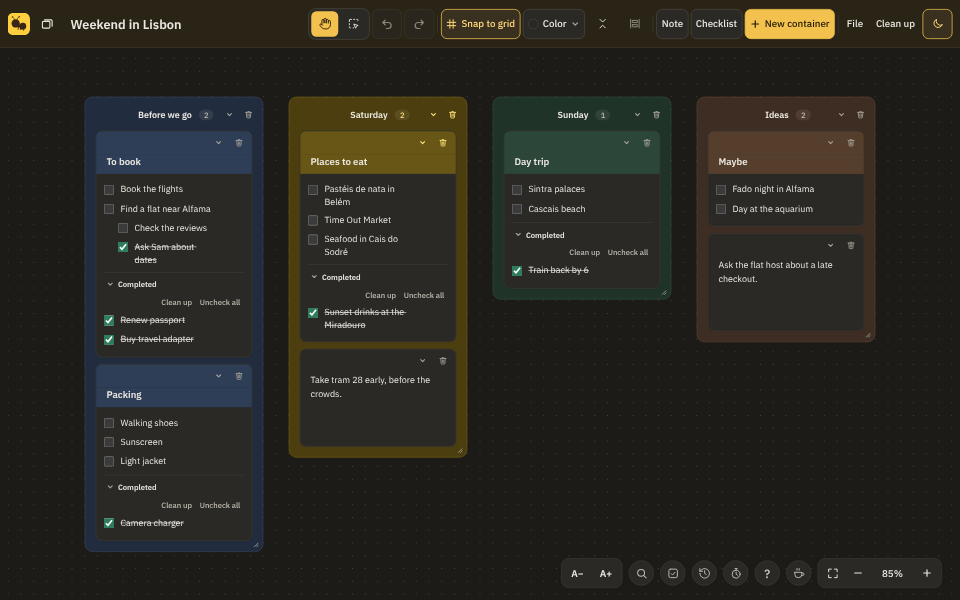
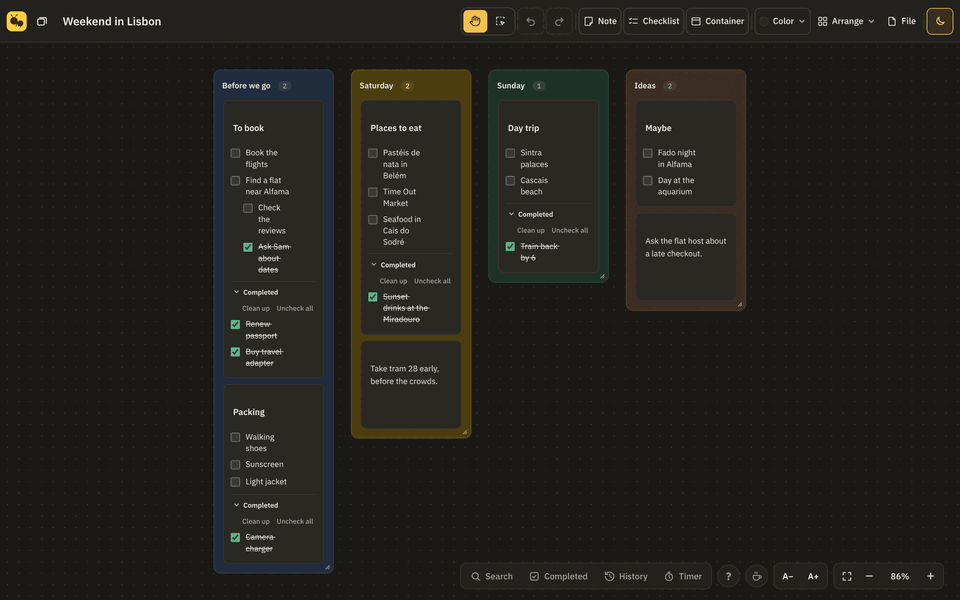
About page: retake board pictures in the new look (job #80)
Claude-Session: https://claude.ai/code/session_01Mqo5uQm7tXN8YtZdHHqsTF

diff --git a/docs/decisions.md b/docs/decisions.md
@@ -170,3 +170,4 @@ Decisions made while building Note Board, with dates and reasons, moved here fro
 - 2026-10-16 (owner decisions, desktop look "Honey Workshop", direction A of the redesign proposal; round 1). Owner's answers: (1) direction A, light and dark; (2) keep IBM Plex Sans; (3) a card's or container's hover-only buttons (trash, collapse and the like) show only while pointing at it, and always on a phone and while it is selected; (4) no coloured title band: cards are white with a bold title, and a colour picked in the Color menu tints the card header lightly; (5) side panels keep covering the board; (6) Snap to grid moves into a new Arrange menu (with Collapse all, Same width and Clean up); (7) a checklist's Clean up and Uncheck all move inside its Completed row and show only while that row is open. Due dates and arrows were left out (both removed earlier). My calls (recommended option, owner rule): Hand / Select keep their order, the pressed tool is honey; Sign out stays an icon; Arrange is a small popover group like File (stays open while used so Snap shows its state, closes on a click elsewhere); the bottom-right panel buttons become one pill with short labels (Search, Completed, History, Timer, Calendar), the ? and coffee stay round and A−/A+ stay; no count on the Completed row; container titles left-aligned; the link card's Open is accent text; selection keeps the accent outline plus a soft honey glow; Note, Checklist and Container are outlined with an icon each, and Share is the one solid honey button; dark-mode checkbox #5fb38a; the header tint is 60% of the swatch mixed into the card colour, with the usual ink (checked readable on all 24 colours, light and dark); on the 8 bold tints the header's icons and title placeholder use the colour's own text colour (the soft grey fell to about 3.2:1); cards inside a coloured container get no automatic tint; the toolbar stays 64px high; the browser's title-bar colour (theme-color, manifest) follows the new toolbar colour (#FFFDF8 light, #24221E dark). From the code review: Escape closes the Arrange and File menus and returns focus to their button.
 - 2026-10-16 (owner decision, sent by the coordinator during the Honey Workshop job). Send feedback leaves the File menu and gets its own button: on a computer a small "Feedback" button with a speech-bubble icon just after File, before Dark mode and Share; on a phone a Feedback row in ⋯ More just above About BusyAnts (not a tile). It opens the same Send feedback panel; sending and saving are unchanged, and it still shows only when signed in (or for a demo person), as before. My call: the button is quiet (outlined like File), not honey, so Share stays the one solid button.
 - 2026-10-16 (owner decision: restyle the website to direction "B. Done List"; replaces the job #59 "Bolder look" and the job #62 About layout). Owner answers: (1) direction B is chosen, paired with the app's "A. Honey Workshop" look (a separate job); (2) Familjen Grotesk replaces Bricolage Grotesque for titles, IBM Plex Sans stays for body text; (3) the FAQ, Terms and Privacy use accordions, built on native `<details>`/`<summary>` so they stay accessible; (4) a second Start your board, free button at the end of the About page; (5) the big honey block stays at the top of every page; (6) the existing `about/board.png` and `board-dark.png` stay, shown larger and framed; retaking them is a follow-up after the app restyle lands. My calls (recommended options): (a) the Done List checkboxes on About are real `<input type="checkbox">`s with their titles as labels; ticking moves an item under "Completed" with CSS only (`:has()`), so it moves on screen but keeps its place in the tab order, and nothing is saved; (b) new layout words only: "Try it: tick one off" and "Completed"; (c) the first fold on each folded page starts open; (d) section ids stay on the headings, and a few lines in `src/site.ts` open the fold a link points to (on arrival and when the address changes), so `faq/#import` and `faq/#delete` still land on their answer; (e) the Delete your account page is not folded (it is short and its steps must be seen): its five steps get big numbered badges; (f) in dark mode the honey block stays warm brown (#5A3C14) with honey text, and the hero button is ink on honey in light, honey on brown in dark; (g) on a phone the top bar is two rows (ant, name and Open BusyAnts; then the four page links spread across, each at least 44px tall), replacing the one-line icon-only bar; (h) on a phone the comparison table turns each row into a list of every app with its answer (labels from a `data-app` attribute) instead of scrolling sideways; (i) the footer keeps its links with no brand line; (j) tests that checked the old one-line phone bar, the side-by-side layout and the sideways-scrolling table were replaced by tests of the new behavior. From the code review: (k) printing or saving a folded page as PDF shows every section (print style), so the legal text is never cut from a printout; (l) the section headings stay real `<h2>`s inside each `<summary>` (Chromium keeps them in the headings list; some screen readers may read them as the button's text instead), kept because the spec asks for native folds and the ids links use live on them; (m) the "Completed" label and the app names shown in the phone table are on-screen only, so screen readers don't hear them twice.
+- 2026-10-16 (job #80, my calls while retaking the About board pictures after the Honey Workshop look). (1) The old demo board was not stored anywhere in the repo, so the "Weekend in Lisbon" board (four containers: Before we go, Saturday, Sunday, Ideas, same cards and wording as the old pictures) was rebuilt from the old picture; no personal data. (2) Captured at 1440x900 at double density, then shrunk to 960x600 (same 8:5 shape), because the toolbar does not fit in a 960px-wide window. (3) Saved as 128-color 960x600 PNGs with ImageMagick (`convert`, already installed), about 30 KB each. (4) The capture script was temporary and is not kept; retake them when the app's look changes much.

diff --git a/CHANGELOG.md b/CHANGELOG.md
@@ -1,5 +1,9 @@
 # Changelog
 
+## About page: board pictures retaken (2026-10-16)
+
+- The two sample-board pictures on the About page (light and dark) were retaken in the new Honey Workshop look. Same "Weekend in Lisbon" board, same size, still small files (about 30 KB each, down from 72 KB). Nothing else changed.
+
 ## Connector/plugin block for Claude Code undone (2026-10-16)
 
 - Undid the change that turned off unused connectors and plugins for Claude Code in this project; the saving was not worth it. Nothing in the app changed.
